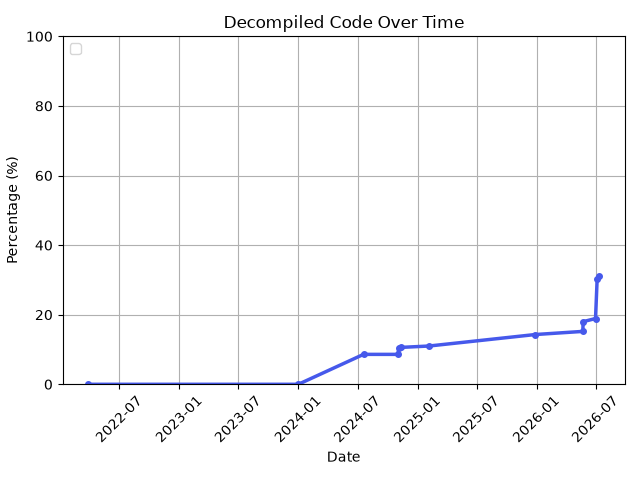
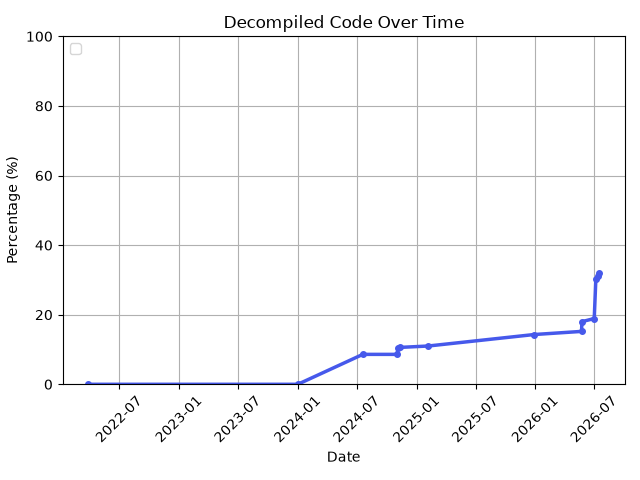
Update progress

diff --git a/scripts/generate-chart.py b/scripts/generate-chart.py
@@ -17,7 +17,8 @@ dates = [
   datetime(2026, 5, 24),
   datetime(2026, 7, 1),
   datetime(2026, 7, 6),
-  datetime(2026, 7, 13)
+  datetime(2026, 7, 13),
+  datetime(2026, 7, 17),
 ]
 
 decompiled_code = [
@@ -34,27 +35,13 @@ decompiled_code = [
   18.9,
   30.3,
   31.1,
-]
-matched_code = [
-  0.0,
-  0.0,   # same
-  1.0,
-  1.0,
-  1.0,
-  1.0,
-  1.0,
-  1.0,
-  1.0,
-  1.0,
-  1.0,
-  1.0,
+  31.9,
 ]
 
 
 fig, ax = plt.subplots()
 
 ax.plot(dates, decompiled_code, color='#4659eb', marker='.', markersize=8, linewidth=2.5)
-# ax.plot(dates, matched_code, label='Matched Code', color='#5a6ae6', marker='.', markersize=8, linestyle='--', linewidth=1.5)
 
 ax.set_title("Decompiled Code Over Time")
 ax.set_xlabel("Date")
